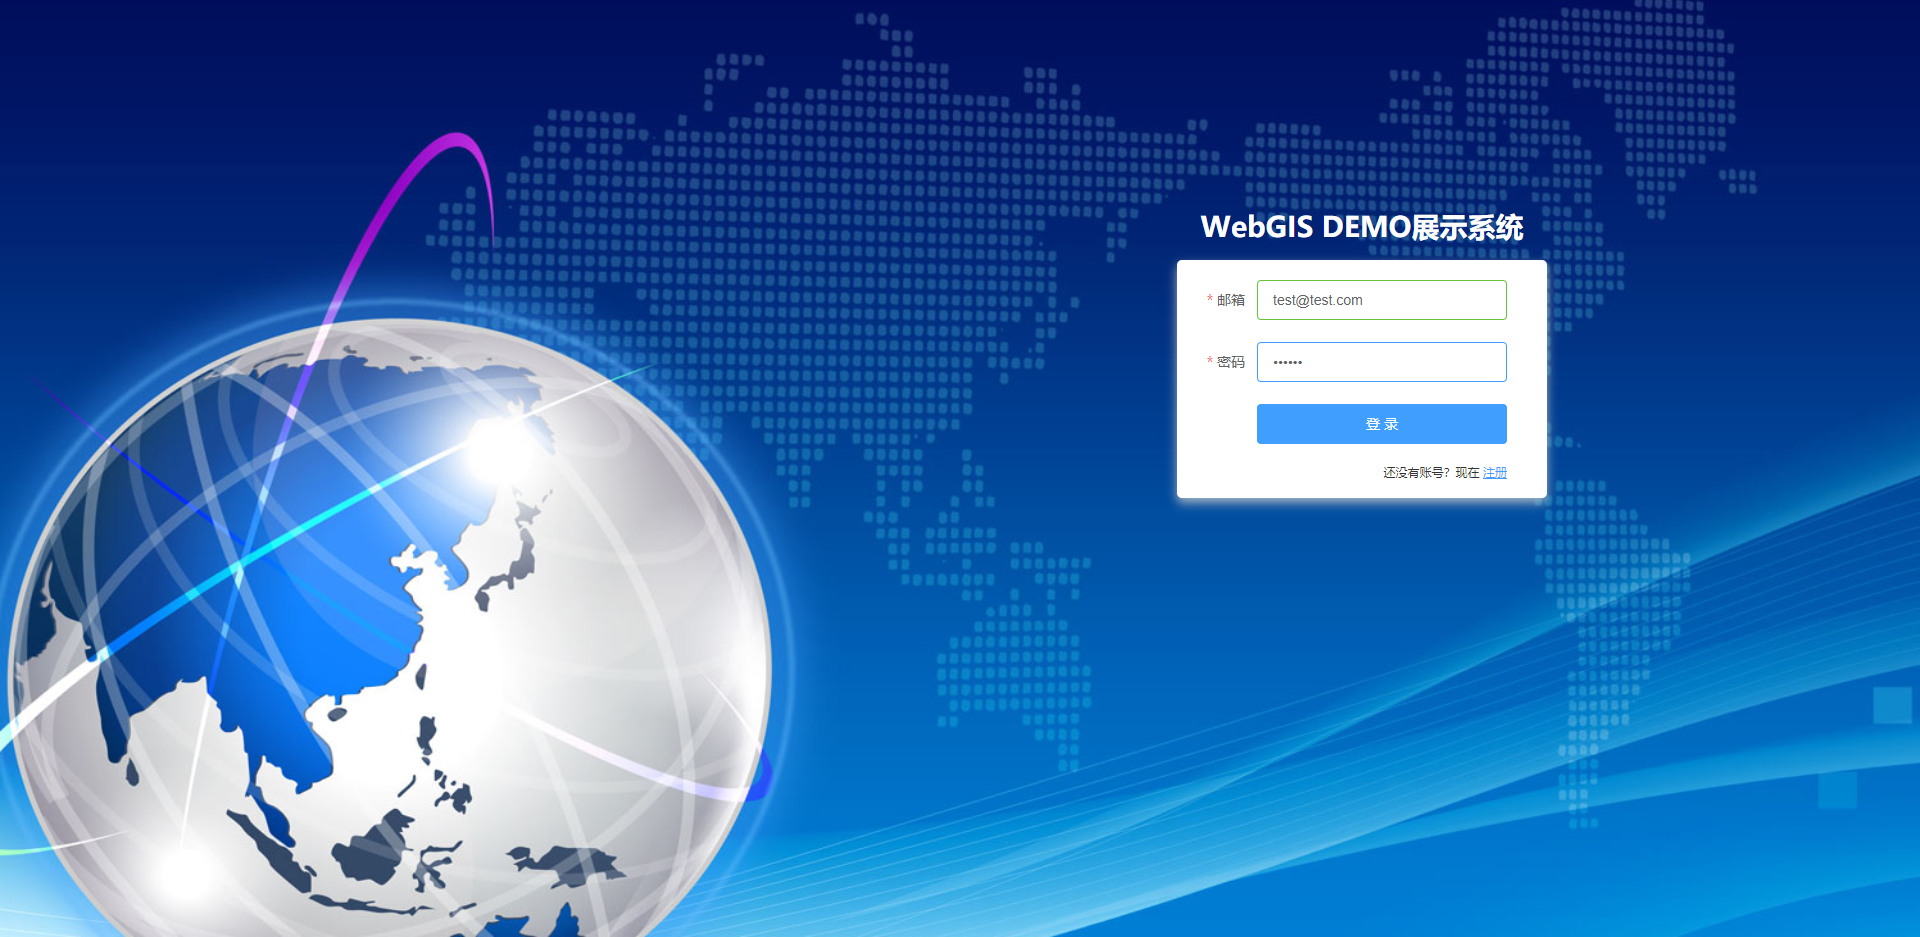
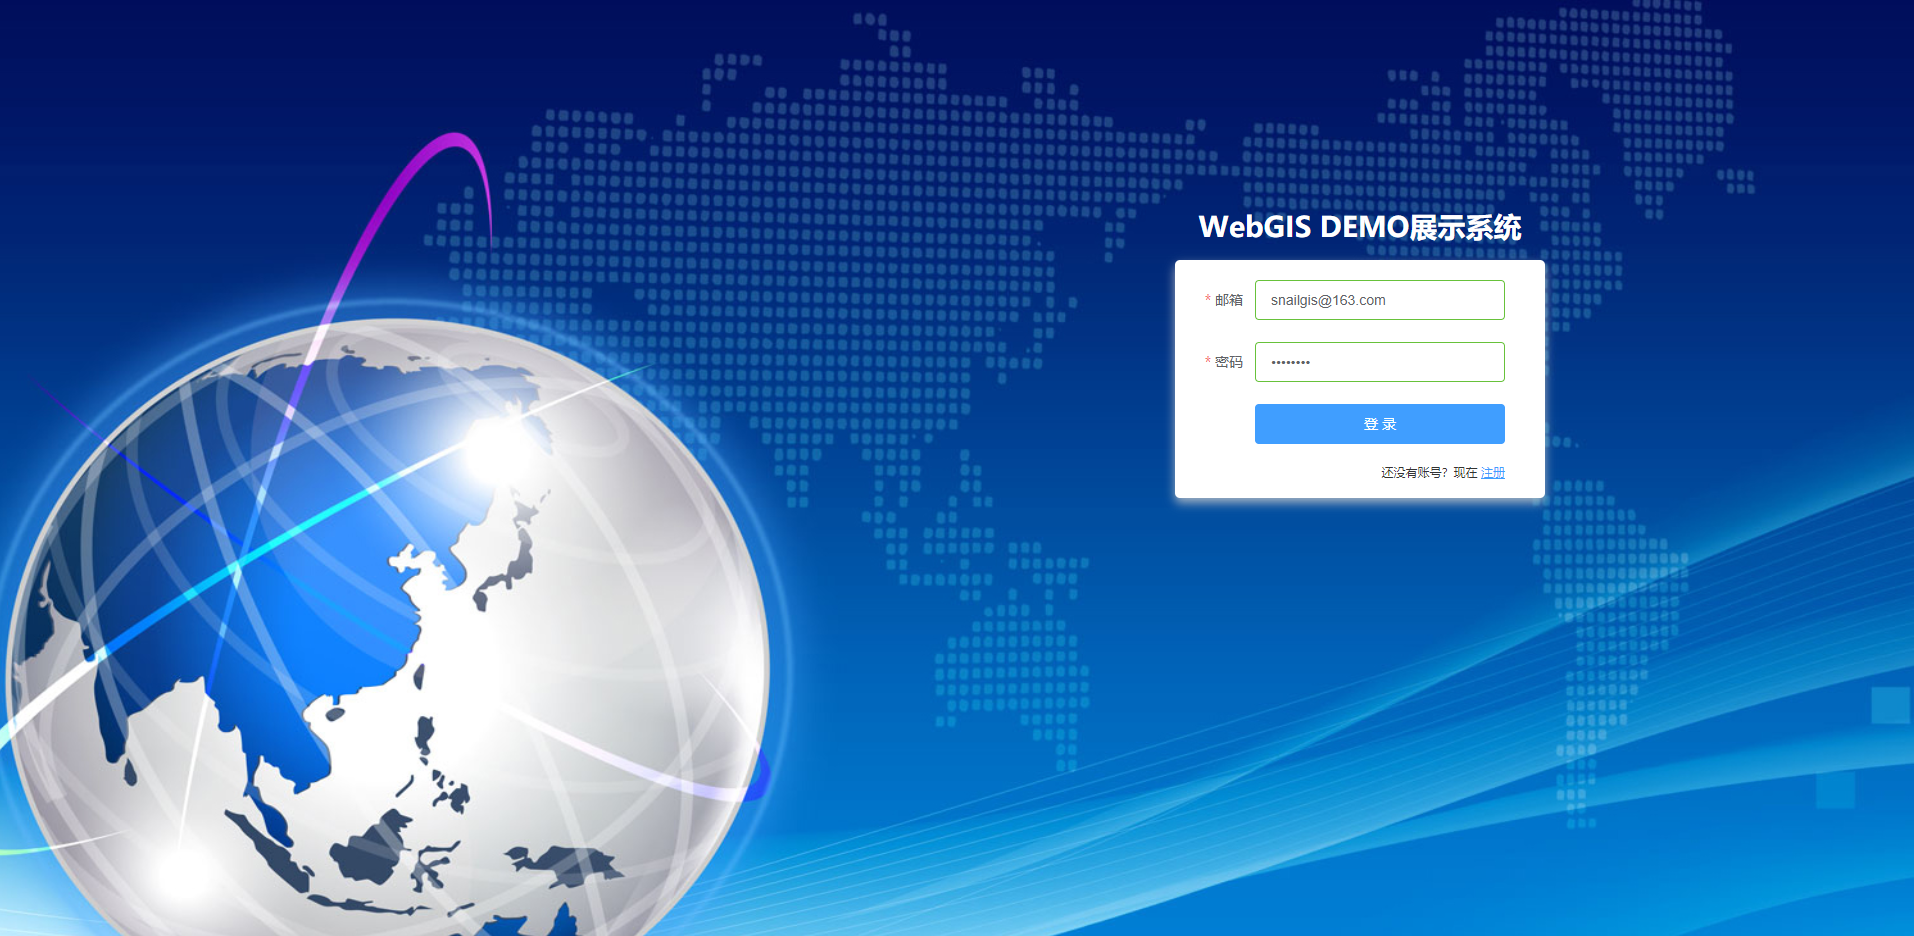
ReadMe文档更新

diff --git a/README.md b/README.md
@@ -1,51 +1,62 @@
-## 运行代码
-1. cd client
-2. npm install (客户端代码中安装依赖)
-3. cd ../
-4. npm run dev (前后端连载，同时启动前后端)
+## 0. 代码运行的前置条件
 
-## 效果展示
-**1.登陆**
-![](https://gitee.com/woniugis/vue_webgis/blob/master/client/src/assets/readmeImg/loginPage.png)
-**2.首页**
-![](https://gitee.com/woniugis/vue_webgis/blob/master/client/src/assets/readmeImg/homePage.png)
-**3.地图门户**
-![](https://gitee.com/woniugis/vue_webgis/blob/master/client/src/assets/readmeImg/mapHomePage.png)
-**4.ArcGIS地图门户**
-![](https://gitee.com/woniugis/vue_webgis/blob/master/client/src/assets/readmeImg/arcgisHomePage.png)
+> #### **系统怎么跑起来？</u>**
 
-！！！后续地图功能正在逐步完善，将尝试使用多种 map api 和集成 gis 相关库
-##  vue + node + WebGIS项目说明：
+> 1. 配置mongoDB数据库环境（可本地安装mongodb compass,会默认安装本地数据库，localhost:27017连接数据库，创建vue_webgis/users，运行程序后注册用户即可登录），也可选择线上mongodb数据库，修改config中数据库连接配置即可。
+> 2. cd client
+> 3. npm install (客户端代码中安装依赖)
+> 4. cd ../
+> 5. npm install (服务端代码中安装依赖)
+> 6. npm run dev (前后端连载，同时启动前后端)
 
-### 实践意义：
+## 1. 效果展示
+**系统登陆**
+![](https://raw.githubusercontent.com/snailgis/vue_webgis/master/client/src/assets/readmeImg/loginPage.png)
+**地图首页，支持Google，天地图，高德，腾讯，Geoq，Arcgis等多源在线网络地图的切换**
+![](https://raw.githubusercontent.com/snailgis/vue_webgis/master/client/src/assets/readmeImg/mapHomePage.png)
+**3维建筑物地图，基于MapBoxGL加载GeoServer三维建筑物矢量切片**
+![](https://raw.githubusercontent.com/snailgis/vue_webgis/master/client/src/assets/readmeImg/3Dbuilding.png)
+**MapBoxGL集成deck.gl实现高性能可视化**
+![](https://raw.githubusercontent.com/snailgis/vue_webgis/master/client/src/assets/readmeImg/HexgonMap.png)
 
-### 实践目的：基于VUE框架使用模块化编程方式实现WebGIS的开发
+**openlayers聚合图**
+![](https://raw.githubusercontent.com/snailgis/vue_webgis/master/client/src/assets/readmeImg/openlayerCluster.png)
 
-### 主要功能
+<!--系统中还有好多好玩的功能等你去发现咯-->
+
+<!--后续地图功能正在逐步完善，将尝试使用多种 map api 和集成 gis 相关库-->
+
+##  2. VUE + Node + WebGIS项目说明：
+
+### 2.1 实践目的：基于VUE框架使用模块化编程方式实现WebGIS的开发
+
+### 2.2 主要功能
 1. 前后端项目搭建
 2. 登录注册（token验证功能）
 3. 丰富的地图开发api DEMO集成，地图可视化实现
 
-### 主要技术
+### 2.3 主要技术
 
-> 地图框架：openlayers 5.x / arcgis api / mapbox
+> 地图框架：MapBoxGL/openlayers 5.x / ArcGIS  API 4.x
 
 > 构建接口文档：Node + express + jwt;
 
 > 构建前端页面：VueCli 3.0 + ElementUI
 
-> 数据请求及拦截：Axios + MongoDB Compass
+> 数据请求及拦截：Axios + MongoDB
 
-### 项目的搭建细节
+> 其他即将或已经使用的技术：GeoServer, PostGIS, deck.gl, echarts, 
 
-#### 1. 准备工作
+### 2.4 项目的搭建细节
+
+#### （1）准备工作
 1.1 搭建服务器（基于express）
 
 1.2 连接本地的MongoDB数据库
 
 1.3 搭建路由和数据模型
 
-#### 2. 登录注册接口
+#### （2）登录注册接口
 > express的body-parser中间件
 
 > bcrypt加密模块
@@ -55,8 +66,8 @@
 获取token(获取数据的令牌/jsonwebtoken)-----验证token（passport/passport-jwt）
 
 
-#### 3. Passport验证
+#### （3）Passport验证
 
 
 
-#### 4. 前后端连载
+#### （4）前后端连载
